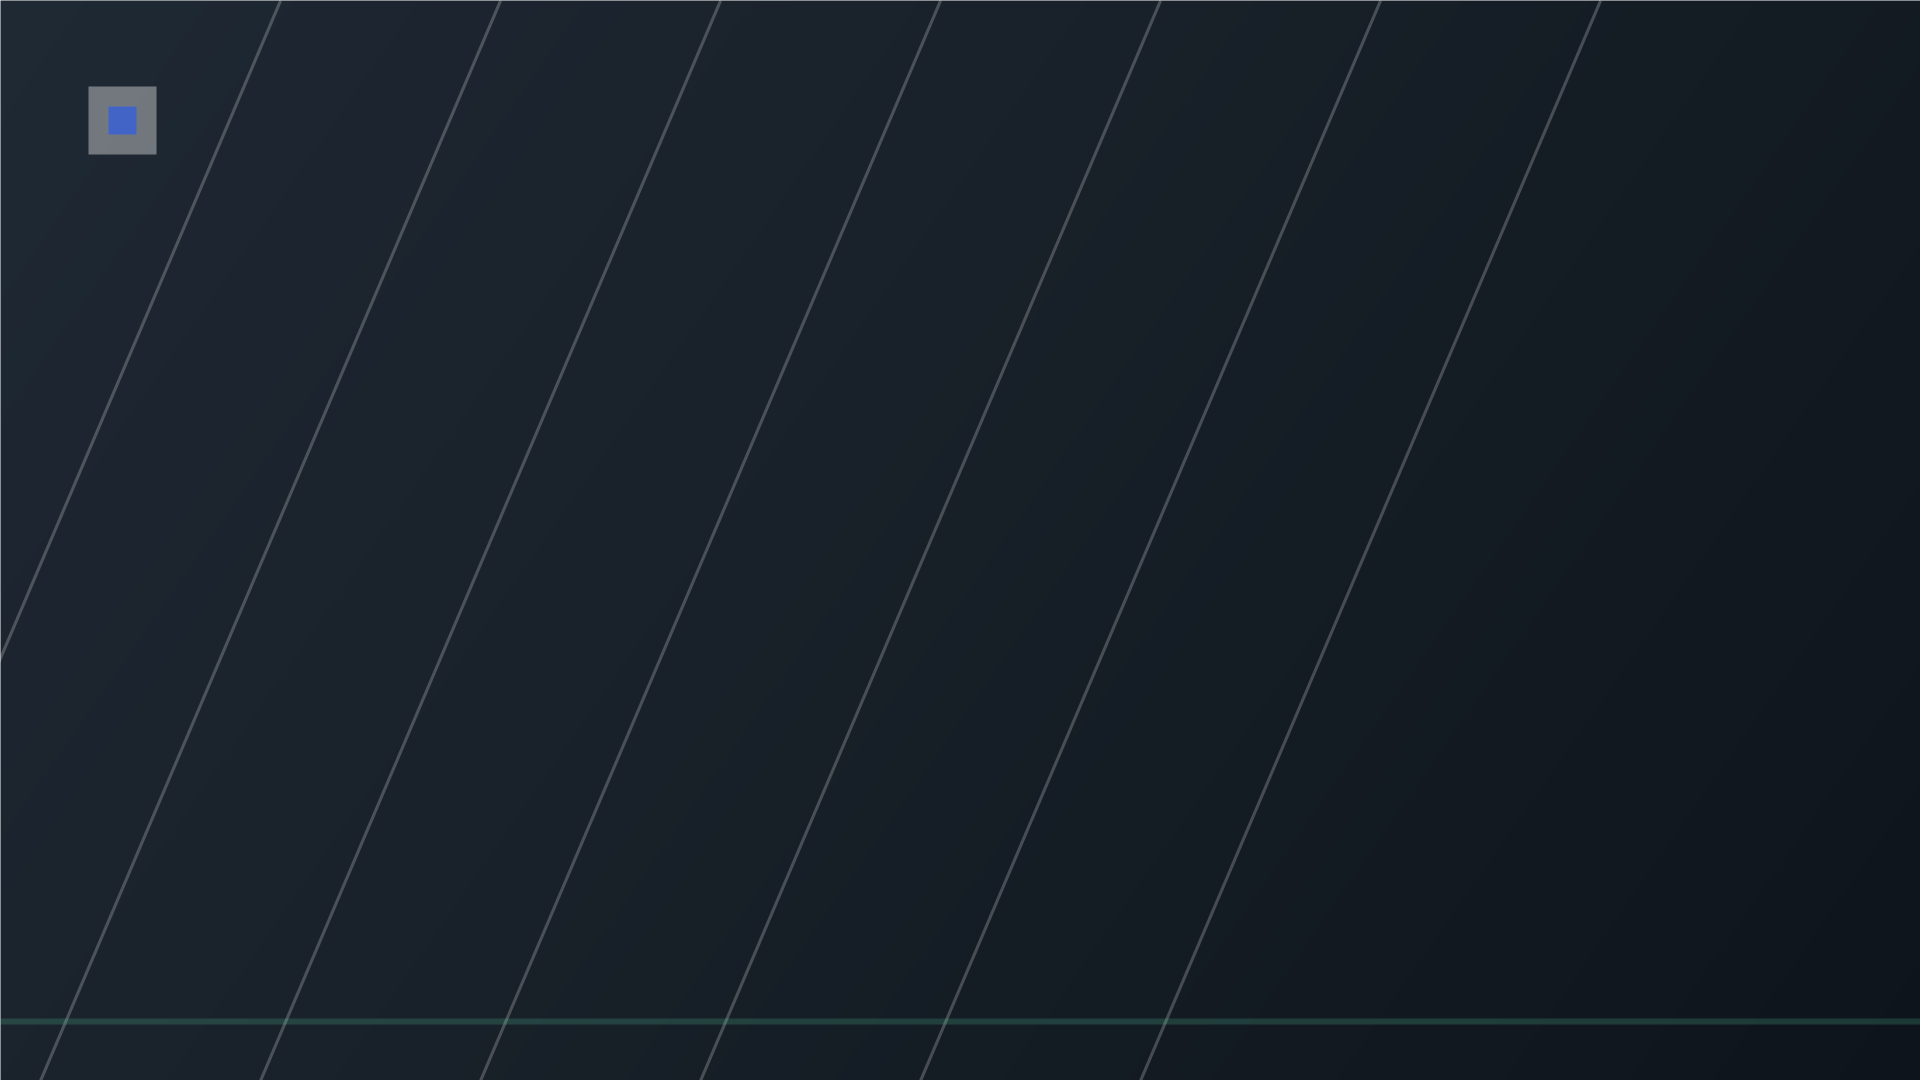
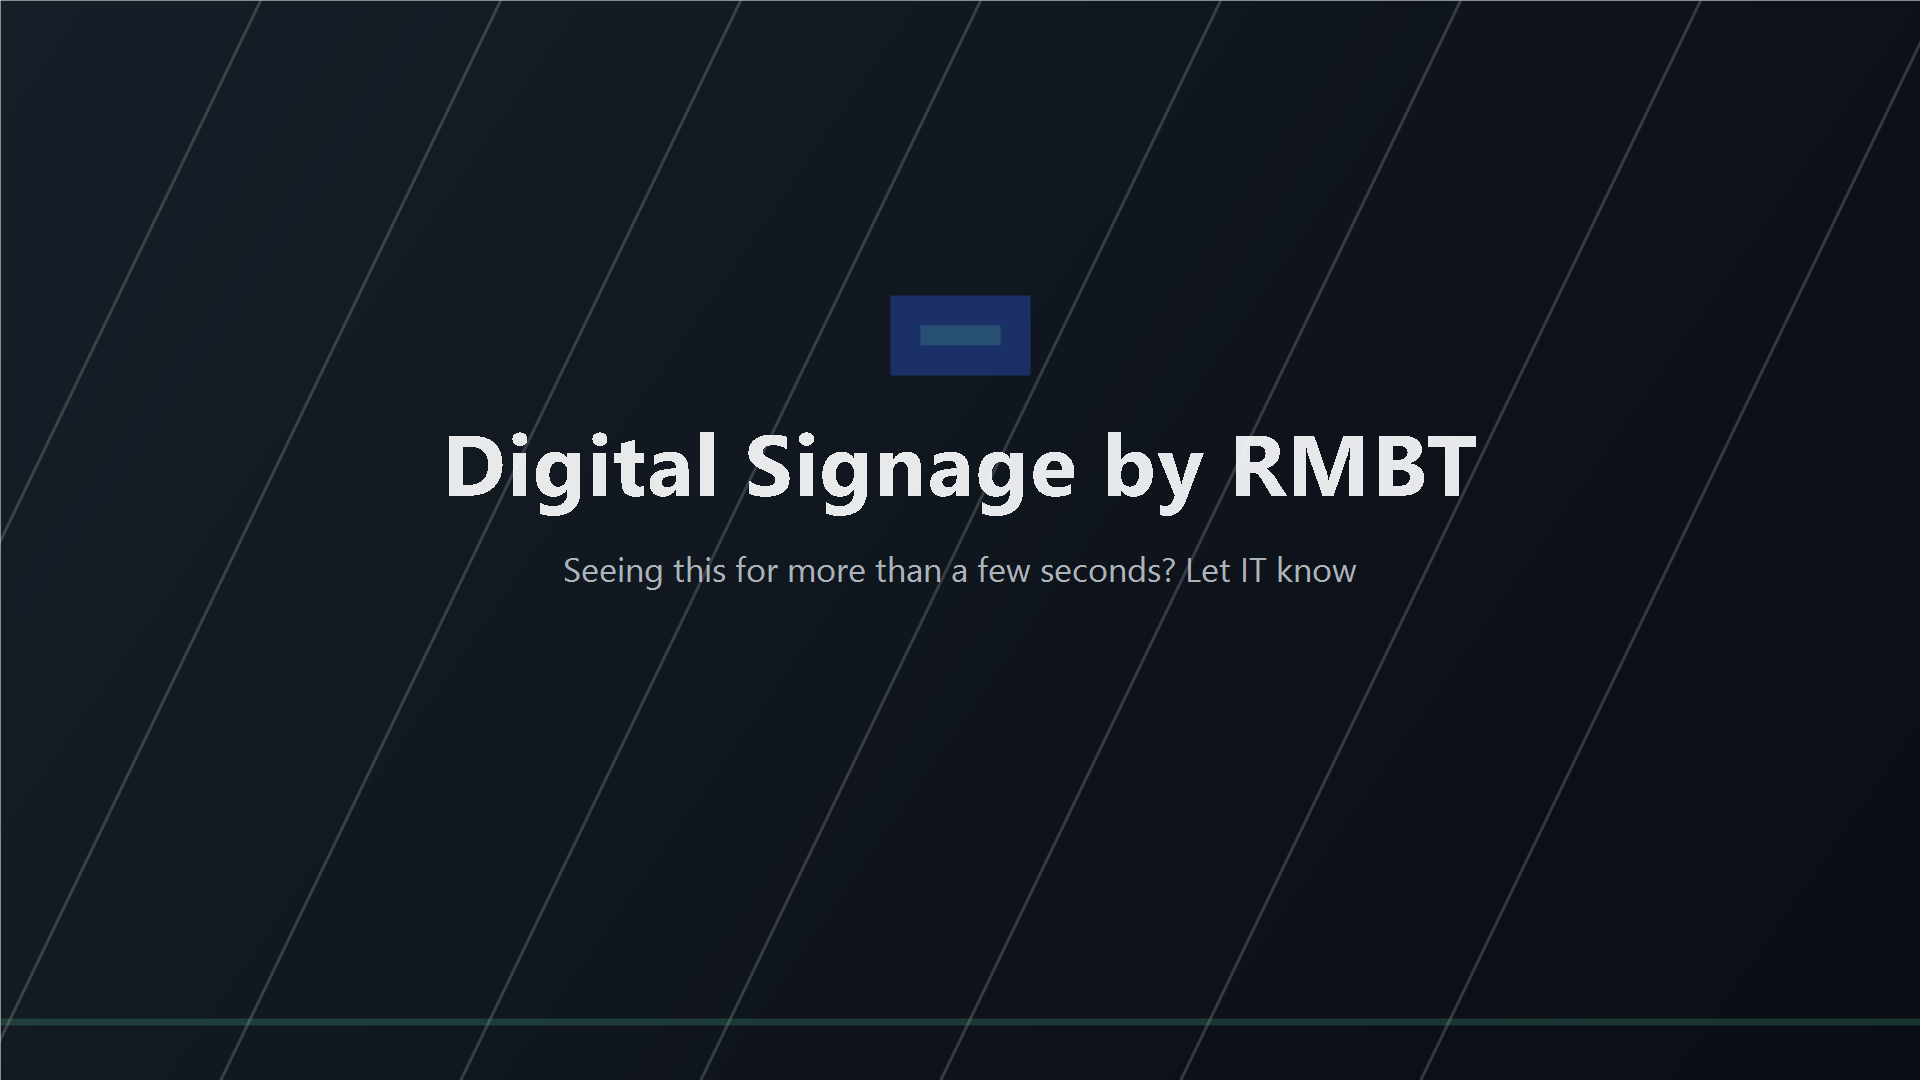
Herstel healthtimer en pas desktopachtergrond direct toe

diff --git a/CHANGELOG.md b/CHANGELOG.md
@@ -24,3 +24,4 @@ Alle noemenswaardige wijzigingen aan dit project worden hier bijgehouden.
 - Losse documentatienotities samengevoegd in de genummerde documentatie.
 - Fase 2B toegevoegd: automatische user-level health-check met failure threshold, startup-grace, restart-cooldown, `health.log` en `health-state.json`.
 - Fase 2C toegevoegd: vaste Digital Signage-desktopachtergrond via pcmanfm-configuratie, inclusief installatie-, upgrade-, uninstall- en testdekking.
+- Healthtimer aangepast naar `OnUnitInactiveSec` met drop-in-reset van oude `OnUnitActiveSec`, en desktopachtergrond wordt waar mogelijk direct via actieve PCManFM toegepast.
